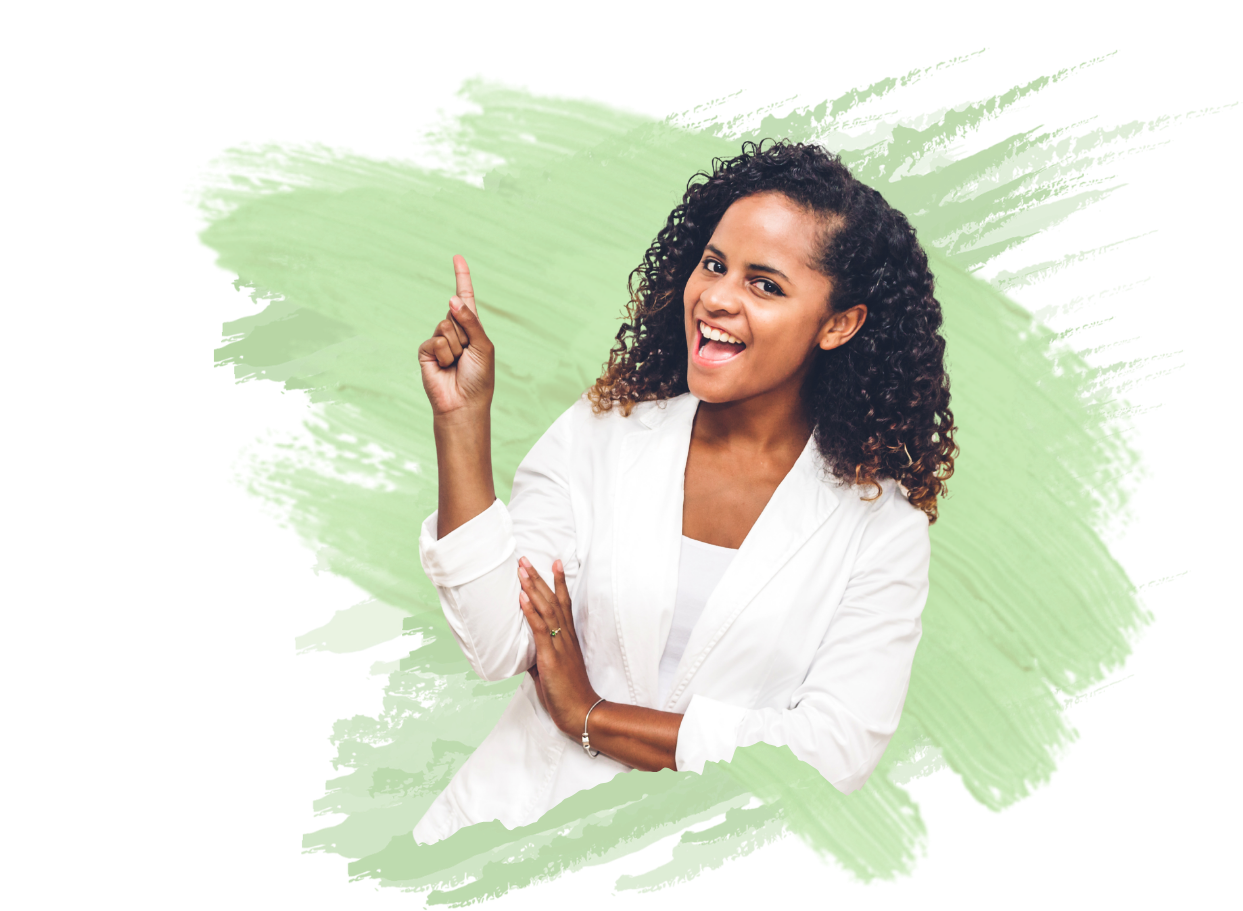
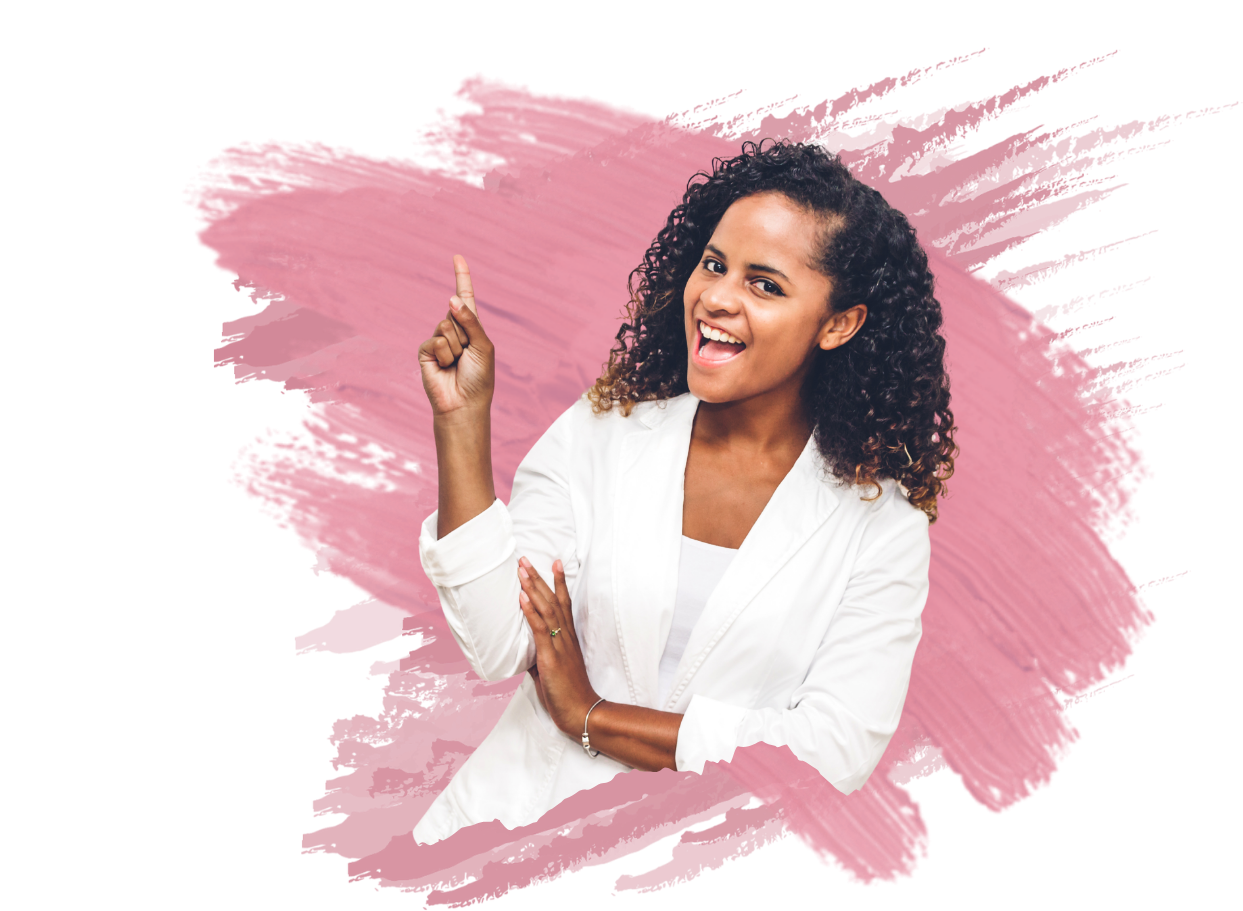
16 marzo

Changed region(s): [[0.1529, 0.0615, 0.9171, 1.0]]

diff --git a/proyecto11/index.html b/proyecto11/index.html
@@ -47,7 +47,7 @@
                 <a class="navbar-brand" href="#">
                     <img src="/docs/5.3/assets/brand/bootstrap-logo.svg" alt="Logo" width="30" height="24"
                         class="d-inline-block align-text-top">
-                        Bootstrap
+                    Bootstrap
                 </a>
                 <button class="navbar-toggler" type="button" data-bs-toggle="collapse"
                     data-bs-target="#navbarNavAltMarkup" aria-controls="navbarNavAltMarkup" aria-expanded="false"
@@ -67,7 +67,7 @@
             </div>
         </nav>
     </header>
-    <main class="container">
+    <main class="container mt-4">
         <!-- sección hero -->
         <section>
             <div class="row">
@@ -76,17 +76,18 @@
                     <h5>Pablo Sandoval</h5>
                     <h2>Diseñador</h2>
                     <h2 class="h2Hero">UX-UI</h2>
-                    <p>Lorem ipsum dolor sit amet consectetur adipisicing elit. Optio tenetur, minus sint eos cupiditate ipsum. Ipsa, aperiam asperiores maxime aliquam maiores facilis dolor sapiente!</p>
+                    <p>Lorem ipsum dolor sit amet consectetur adipisicing elit. Optio tenetur, minus sint eos cupiditate
+                        ipsum. Ipsa, aperiam asperiores maxime aliquam maiores facilis dolor sapiente!</p>
                     <div class="d-flex gap-4">
                         <a href="#" class="btnRelleno">Contrátame</a>
-                        <a href="#" class="btnOutline">Descargar CV</a>
+                        <a href="#" class="btnOutline"><i class="bi bi-arrow-down"></i> Descargar CV</a>
                     </div>
                 </article>
                 <article class="col-11 mx-auto d-flex flex-column justify-content-center col-md-5">
                     <img src="assets/img/Hero.png" alt="" class="w-100">
                 </article>
                 <!-- íconos -->
-                <div class="d-flex col-12 px-auto justify-content-center gap-4">
+                <div class="d-flex col-12 px-auto justify-content-center gap-4 mt-4 mb-5 contenedorIconos">
                     <i class="bi bi-facebook fs-3"></i>
                     <i class="bi bi-instagram fs-3"></i>
                     <i class="bi bi-linkedin fs-3"></i>
@@ -97,17 +98,70 @@
         </section>
 
         <!-- ACERCA DE MI -->
-        <section>
+        <section class="my-5 py-5">
             <div class="row">
-                <article class="col-11 mx-auto col-md-5 bg-danger">IMAGEN</article>
-                <article class="col-11 mx-auto col-md-7 bg-primary">TEXTO</article>
+                <article class="col-11 mx-auto col-md-5 d-flex flex-column justify-content-center">
+                    <img src="assets/img/nosotros.png" alt="" class="w-100">
+                </article>
+                <article class="col-11 mx-auto col-md-7 mt-3 mt-md-0">
+                    <h3>Acerca de mí</h3>
+                    <p>Lorem ipsum dolor sit amet consectetur, adipisicing elit. Iure, aperiam. Eaque quo in corporis
+                        quis? Reiciendis repellat molestiae velit.</p>
+                    <div class="d-flex flex-column gap-4 contenedorProgresBar">
+                        <div class="d-flex flex-column">
+                            <div class="d-flex flex-row justify-content-between">
+                                <h5>FIGMA</h5>
+                                <h5>92%</h5>
+                            </div>
+                            <div class="progress" role="progressbar" aria-label="Animated striped example"
+                                aria-valuenow="92" aria-valuemin="0" aria-valuemax="100">
+                                <div class="progress-bar progress-bar-striped progress-bar-animated" style="width: 92%">
+                                </div>
+                            </div>
+                        </div>
+                        <div class="d-flex flex-column">
+                            <div class="d-flex flex-row justify-content-between">
+                                <h5>AULA DIGITAL</h5>
+                                <h5>56%</h5>
+                            </div>
+                            <div class="progress" role="progressbar" aria-label="Animated striped example"
+                                aria-valuenow="56" aria-valuemin="0" aria-valuemax="100">
+                                <div class="progress-bar progress-bar-striped progress-bar-animated" style="width: 56%">
+                                </div>
+                            </div>
+                        </div>
+                        <div class="d-flex flex-column">
+                            <div class="d-flex flex-row justify-content-between">
+                                <h5>DCU</h5>
+                                <h5>67%</h5>
+                            </div>
+                            <div class="progress" role="progressbar" aria-label="Animated striped example"
+                                aria-valuenow="67" aria-valuemin="0" aria-valuemax="100">
+                                <div class="progress-bar progress-bar-striped progress-bar-animated" style="width: 67%">
+                                </div>
+                            </div>
+                        </div>
+                        <div class="d-flex flex-column">
+                            <div class="d-flex flex-row justify-content-between">
+                                <h5>HTML/CSS</h5>
+                                <h5>32%</h5>
+                            </div>
+                            <div class="progress" role="progressbar" aria-label="Animated striped example"
+                                aria-valuenow="32" aria-valuemin="0" aria-valuemax="100">
+                                <div class="progress-bar progress-bar-striped progress-bar-animated" style="width: 32%">
+                                </div>
+                            </div>
+                        </div>
+                    </div>
+                </article>
             </div>
         </section>
 
         <!-- SERVICIOS -->
         <section>
             <h2 class="text-center">Servicios</h2>
-            <p class="text-center">Lorem ipsum dolor sit, amet consectetur adipisicing elit. Accusamus optio cupiditate dignissimos nostrum
+            <p class="text-center">Lorem ipsum dolor sit, amet consectetur adipisicing elit. Accusamus optio cupiditate
+                dignissimos nostrum
                 nulla aspernatur mollitia aliquam tempora veniam, fugit fugiat quo nemo modi ipsa temporibus. Vel
                 nesciunt beatae consequuntur.</p>
             <div class="row row-cols-1 row-cols-md-2 row-cols-lg-3 g-4">
@@ -176,10 +230,7 @@
     </main>
     <footer class="container">Footer</footer>
 
-    <!-- [ ]  Contenido de sección Hero-->
-    <!-- [ ]  Contenido de sección Nosotros-->
     <!-- [ ]  Contenido de los Card de servicios -->
-    <!-- [ ]  Ajustar los íconos -->
     <!-- [ ]  Footer-->
 
     <!-- JS de Bootstrap se necesita para su funcionamiento -->

diff --git a/proyecto11/assets/css/estilos.css b/proyecto11/assets/css/estilos.css
@@ -99,6 +99,10 @@ body {
     font-weight: 600;
 }
 
+.btnRelleno:hover{
+    background-color: var(--colorPrincipal-700);
+}
+
 .btnOutline {
     border: 1px solid var(--colorPrincipal-400);
     color: var(--colorPrincipal-400);
@@ -108,10 +112,29 @@ body {
     font-weight: 600;
 }
 
-/* [ ] Hover de los btn */
-/* [ ] Separar los íconos de RRSS */
-/* [ ] Hover de los íconos */
+.btnOutline:hover{
+    border: 1px solid var(--colorPrincipal-700);
+    color: var(--colorPrincipal-100);
+    background-color: var(--grisOscuro-700);
+}
 
+.contenedorIconos i:hover{
+    color: var(--colorPrincipal-400);
+}
+
+.contenedorProgresBar h5{
+    font-size: 16px;
+    font-weight: 400;
+}
+
+.progress{
+    height: 8px;
+    background-color: var(--grisOscuro-100);
+}
+
+.progress-bar{
+    background-color: var(--colorPrincipal-700);
+}
 
 /* Pantalla escritorio */
 @media (min-width: 992px) {
